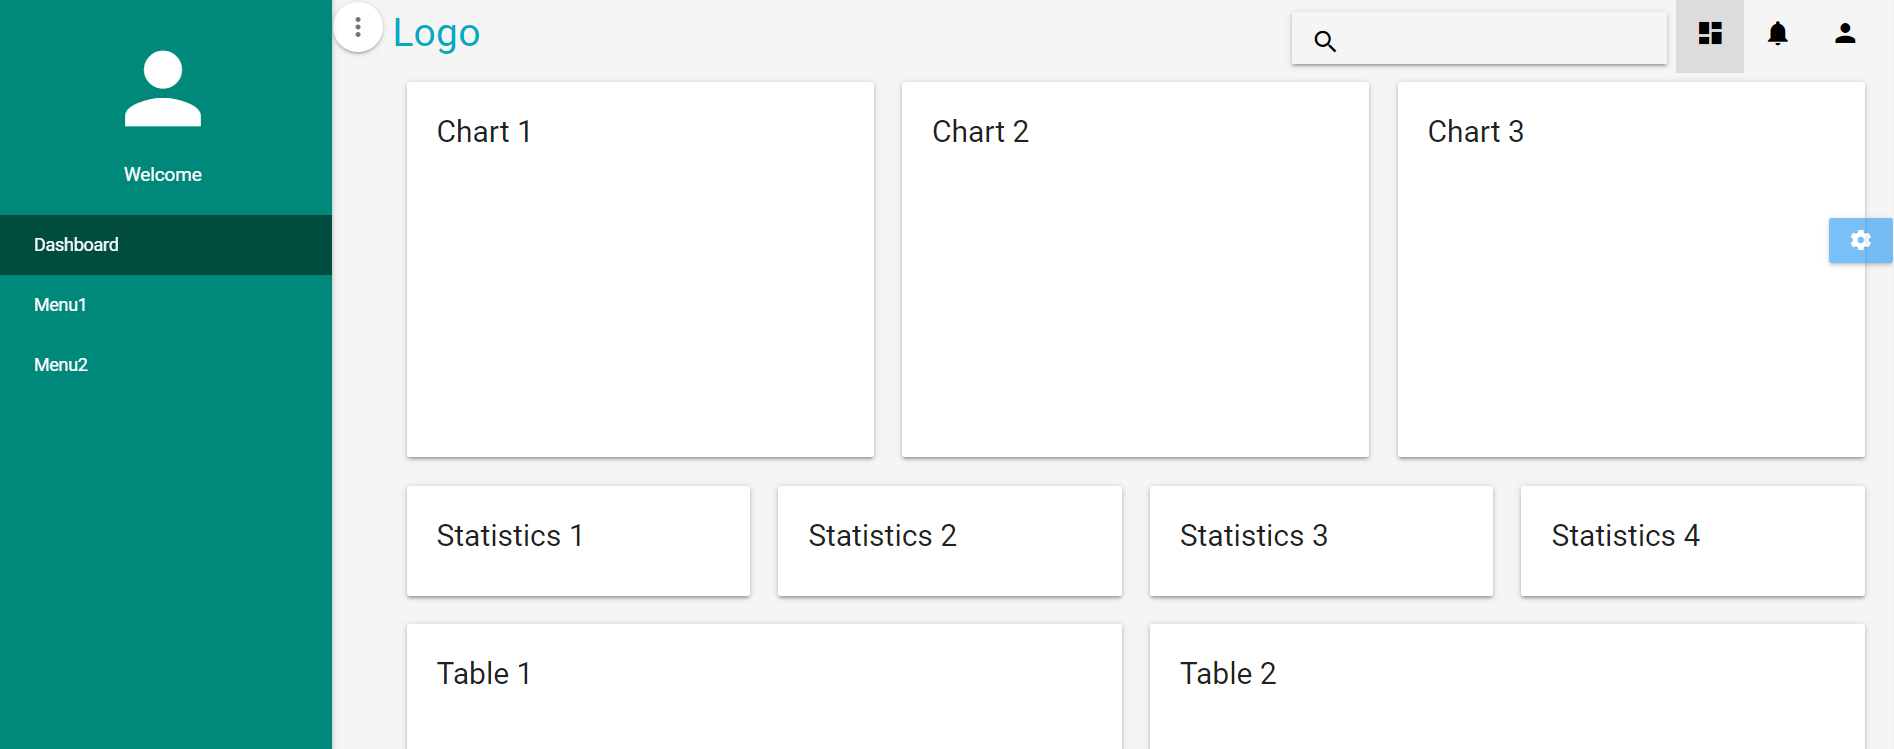
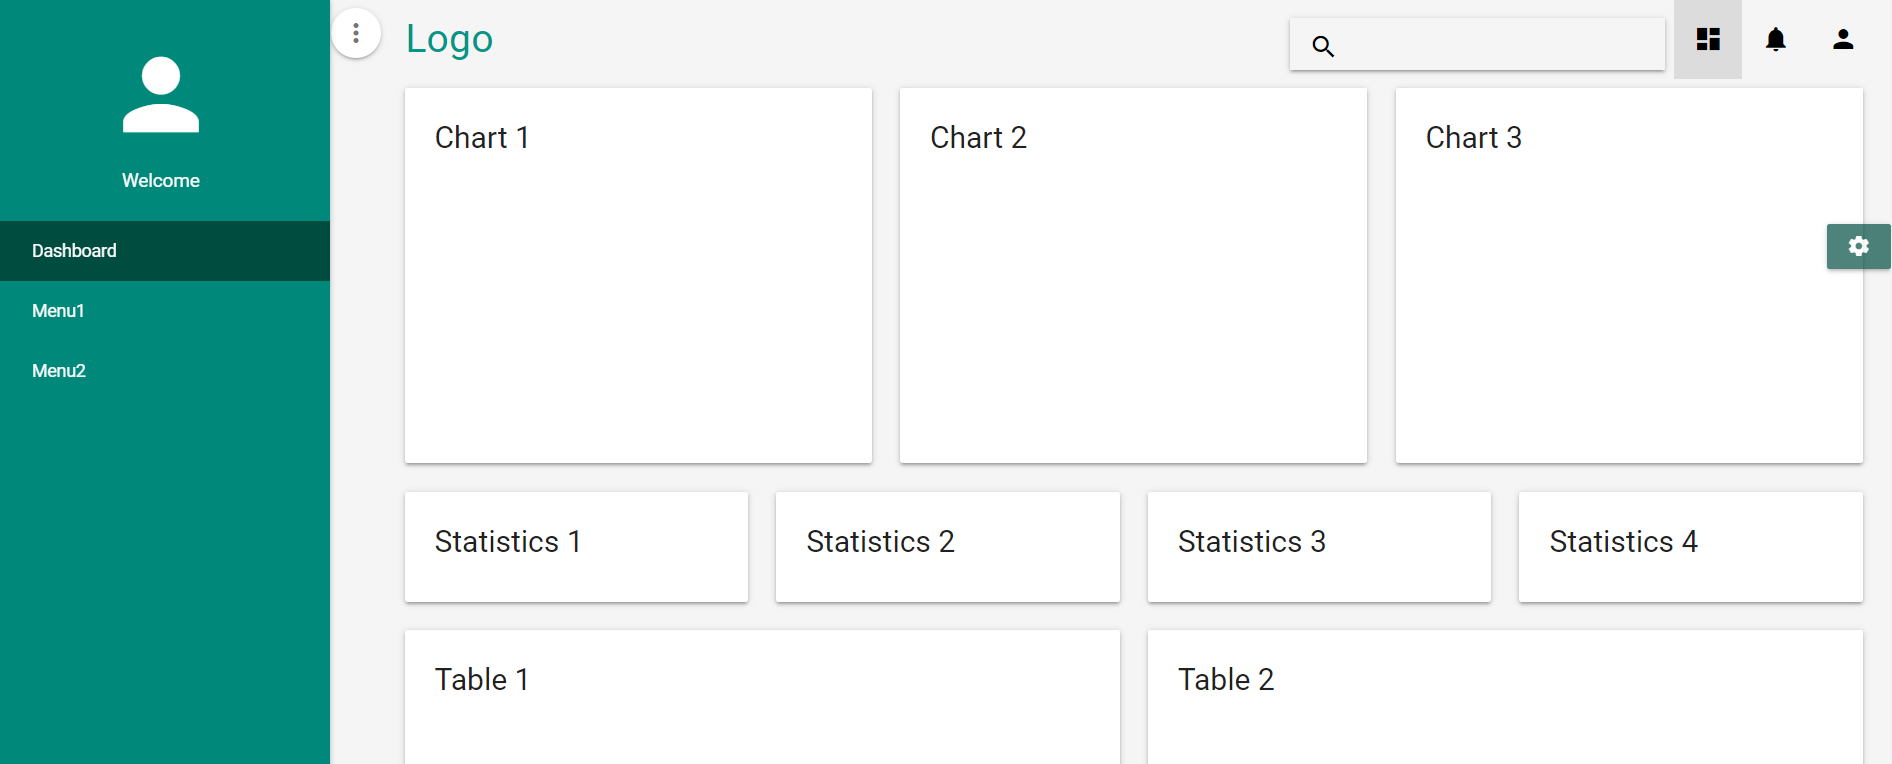
theme selection

diff --git a/vue-materialize-template/src/components/Settings.vue b/vue-materialize-template/src/components/Settings.vue
@@ -1,7 +1,7 @@
 <template>
  <transition name="fade" appear>
     <div class="settings  right-align" @click.stop>
-        <a class="btn indigo darken-4 waves-effect waves-light" @click="showSetting=!showSetting">
+        <a :class="'btn waves-effect waves-light hoverable '+settingsBtnColor" @click="showSetting=!showSetting">
             <transition name="rotate1" appear>
                 <i class="material-icons" v-show="showSetting" :key="1">settings</i>
             </transition>
@@ -12,9 +12,16 @@
         <transition name="scale">
             <div class="card small" v-show="showSetting">
                 <div class="card-content">
-                    <span class="card-title blue-text">
-                        Some Settings...
+                    <span class="card-title left">
+                        Theme:
                     </span>
+                    <div class="colors-container clearfix">
+                        <div v-for="(clr,ind) in availableColors" :key="ind" 
+                          @click="setTheme(clr)"
+                          :class="['left z-depth-1 hoverable',clr,theme==clr?'active':'']">
+
+                        </div>
+                    </div>
                 </div>
             </div>
         </transition>
@@ -22,12 +29,21 @@
  </transition>
 </template>
 <script>
+import {mapActions,mapState} from 'vuex'
 export default {
     name:'Settings',
     data(){
         return {
-            showSetting:false
+            showSetting:false,
+            availableColors:['teal darken-1','cyan darken-1','blue darken-1','indigo darken-1']
+
         }
+    },
+    computed:{
+        ...mapState(['theme']), 
+        settingsBtnColor(){
+            return this.theme.replace("darken-1","darken-4")
+        }       
     },
     created(){
         window.addEventListener('click',this.closeSetting)
@@ -36,6 +52,7 @@ export default {
         window.removeEventListener('click',this.closeSetting)
     },
     methods:{
+        ...mapActions(['setTheme']),
         closeSetting(){
             this.showSetting=false;
         }
@@ -76,5 +93,18 @@ export default {
 
 .rotate2-enter{
     transform: rotate(-90deg);
+}
+.colors-container > div{
+    width:3.5rem;
+    height: 6rem;
+    margin-left:0.3rem;
+    cursor: pointer;
+    border-radius: 10px;
+    transition:all 0.3s;
+}
+.colors-container > div.active{
+    border:2px dotted #616161;      
+    transform: scale(1.1);
+    transition:all 0.3s;
 }
 </style>

diff --git a/vue-materialize-template/src/components/SideNav.vue b/vue-materialize-template/src/components/SideNav.vue
@@ -1,13 +1,13 @@
 <template>
     <div class="left side-nav-container" :style="navContainerStyle">
-        <ul :class="sideNavClass" :style="navStyle" id="appSideNav">
+        <ul :class="navClass" :style="navStyle" id="appSideNav">
             <li :key="-1">
                 <div class="user-view">
                     <i class="large material-icons white-text">person</i>
                     <a class="white-text">Welcome</a>
                 </div>
             </li>
-            <li v-for="item in menu" :key="item.id" :class="{'active':item.active}">
+            <li v-for="item in menu" :key="item.id" :class="[item.active?navLiActiveClass:'']">
                 <router-link class="white-text waves-effect waves-light" :to="item.path">{{item.text}}</router-link>
             </li>        
         </ul>
@@ -18,6 +18,7 @@
     </div>
 </template>
 <script>
+import {mapState} from 'vuex'
 export default {
     name:'SideNav',
     props:{
@@ -41,17 +42,21 @@ export default {
         this.navWidth=this.value-2  
         if(window.innerWidth<1024){
             this.isMobile=true
-            let elem = document.getElementById('appSideNav');
+            let  elem = document.getElementById('appSideNav');
             let instance = M.Sidenav.init(elem, {});
         }
     },
     computed:{
-        sideNavClass(){
-          let cl="sidenav teal darken-1"  
+        ...mapState(['theme']),
+        navClass(){
+          let cl="sidenav "+this.theme
           if(!this.isMobile){
               cl+=" sidenav-fixed"
           }
           return cl
+        },
+        navLiActiveClass(){
+           return this.theme.replace(" darken-1","")+ " darken-4" 
         },
         navContainerStyle(){
             return {width:this.navContainerWidth+'rem'}
@@ -61,7 +66,7 @@ export default {
             return {width:this.navWidth+'rem',transform:'translateX('+offset+'rem)'}
         }
     },
-    methods:{
+    methods:{      
         toggleWidth(){
             if(!this.isMobile){
                 let top=this.initialValue-1
@@ -109,9 +114,7 @@ export default {
         justify-content: center;
         align-items: center;        
     }
-    li.active{
-        background-color: #004d40 !important;
-    }
+  
     .btn-floating{
         margin-top:0.5rem;
     }

diff --git a/vue-materialize-template/src/components/NavBar.vue b/vue-materialize-template/src/components/NavBar.vue
@@ -1,7 +1,7 @@
 <template>
       <nav class="transparent">
         <div class="nav-wrapper">
-            <a class="brand-logo cyan-text text-darken-1">Logo</a>
+            <a :class="'brand-logo '+logoColor">Logo</a>
               <ul class="right hide-on-med-and-down">               
                 <li v-for="item in menu" :key="item.id" :class="{'active':item.active}">
                     <router-link :to="item.path"><i class="material-icons black-text">{{item.icon}}</i></router-link>
@@ -18,6 +18,7 @@
     </nav>
 </template>
 <script>
+import {mapState, mapActions} from 'vuex'
 export default {
     name:'NavBar',
     data(){
@@ -26,6 +27,12 @@ export default {
            {id:2,icon:'notifications',path:'/menu1',active:false},
            {id:3,icon:'person',path:'/menu2',active:false}
        ]}
+    },
+    computed:{
+        ...mapState(['theme']),
+        logoColor(){
+            return this.theme.replace(/\s/g, '-text ').replace("darken-1","darken-4") 
+        }
     },
     watch:{
         $route:{

diff --git a/vue-materialize-template/src/store/index.js b/vue-materialize-template/src/store/index.js
@@ -5,10 +5,17 @@ Vue.use(Vuex)
 
 export default new Vuex.Store({
   state: {
+    theme:'teal darken-1'
   },
   mutations: {
+    SET_THEME(state,data){
+      state.theme=data
+    }
   },
   actions: {
+    setTheme({commit},data){
+      commit('SET_THEME',data)
+    }
   },
   modules: {
   }
